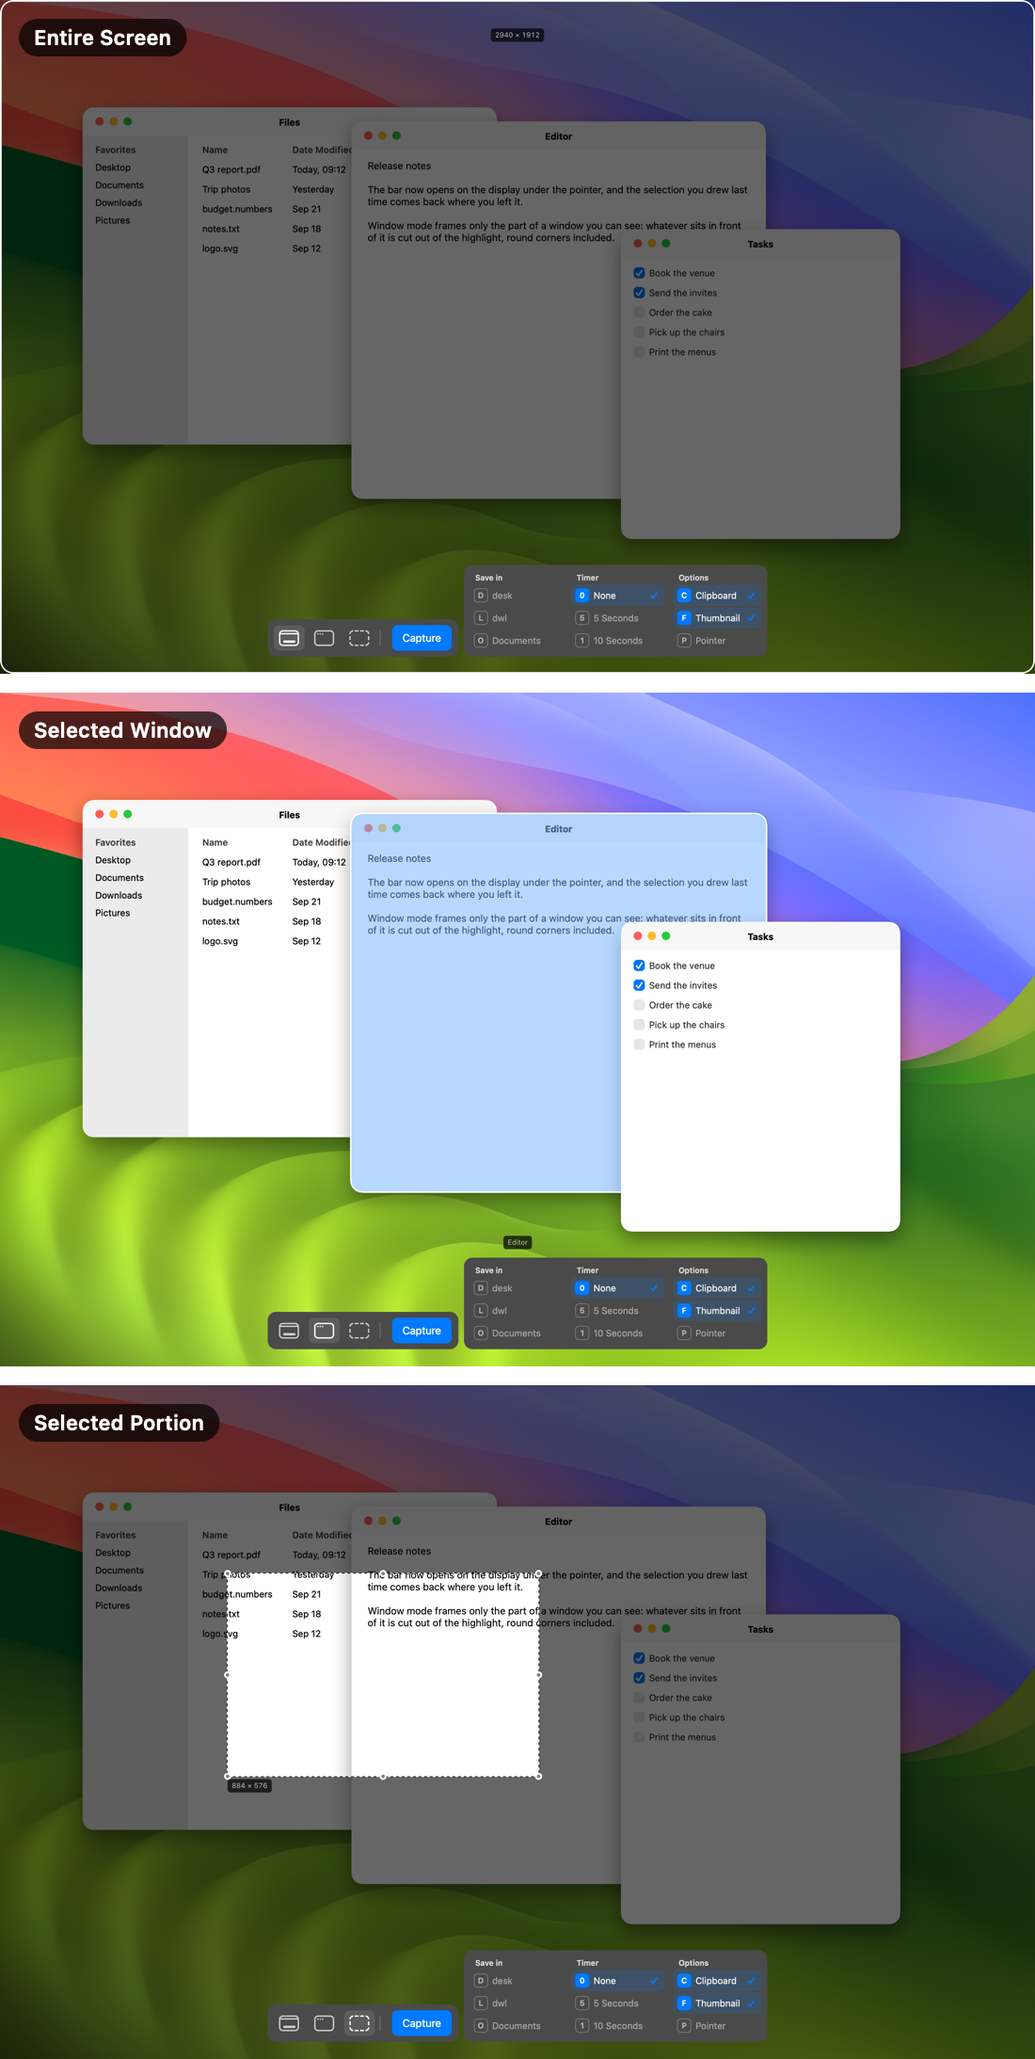
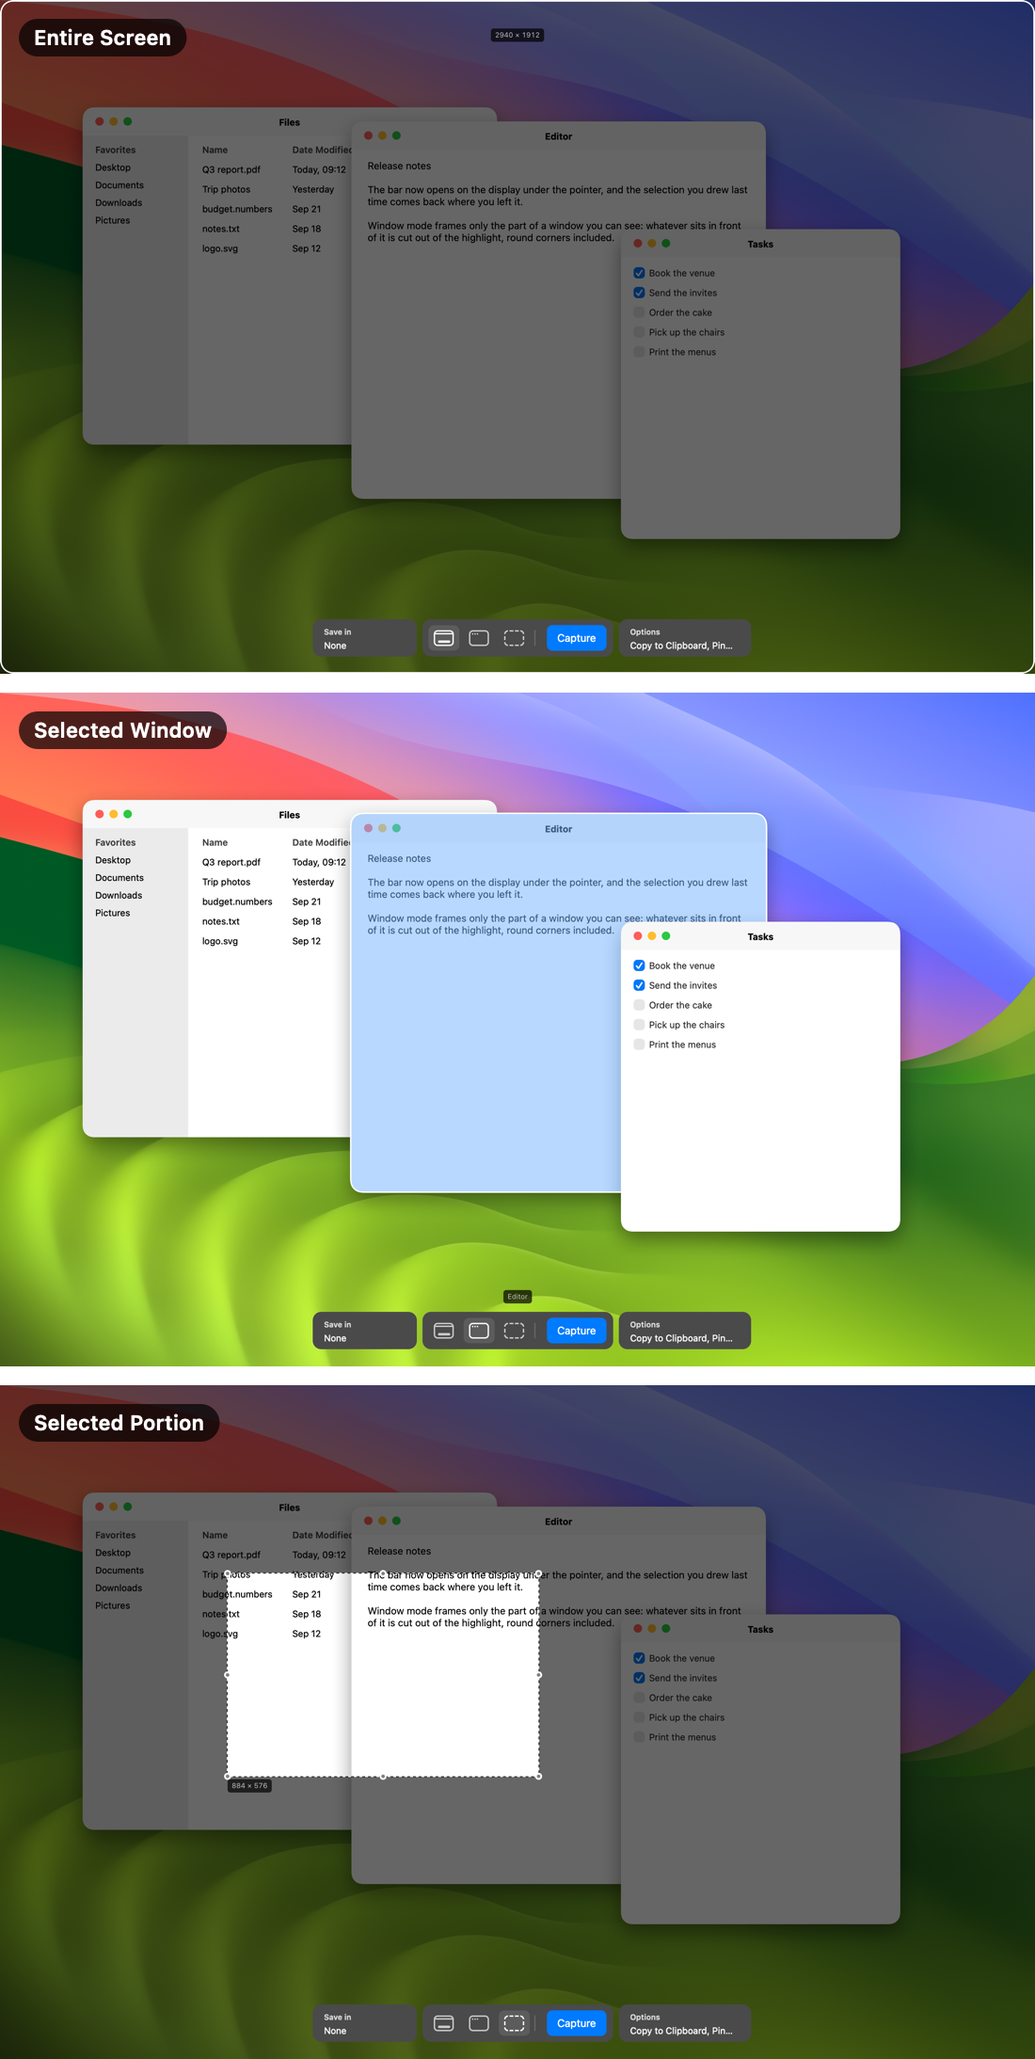
screenshot: Save in left, Options right, both shrunk until hovered; no timer
The timer goes, settings key and live-capture path included: every shot
now comes from the frozen screen. Save in sits on the bar's left and
Options on its right, each as tall as the bar with its title and what is
on; hovered, it grows upward (250 ms ease-out, Reduce Motion keeps the
crossfade) to a row per setting. Options read Copy to Clipboard (⌘C),
Pin Thumbnail (⌘P) and Capture Mouse (⌘M).

diff --git a/screenshot/Sources/Screenshot/Bar.swift b/screenshot/Sources/Screenshot/Bar.swift
@@ -1,8 +1,8 @@
 import AppKit
 import ScreenshotCore
 
-/// The ⌘⇧5 strip, laid out like the system's: the stills, the button, with every setting on
-/// its right. Never key: keys go to the overlay.
+/// The ⌘⇧5 strip, laid out like the system's: the stills and the button, between Save in on
+/// its left and Options on its right. Never key: keys go to the overlay.
 final class Bar: NSPanel {
     // Apple's geometry, measured on the system bar at 2×: 53 pt tall, stills on a
     // 50 pt pitch in 44×36 buttons, a divider 7 pt after them, the button 17.5 pt after that.
@@ -11,7 +11,9 @@ final class Bar: NSPanel {
     private(set) var buttons: [ModeButton] = []
     let go = NSButton()
     let hint = Hint()
-    let strip = Strip()
+    let saveIn = Section.saveIn()
+    let options = Section.options()
+    var sections: [Section] { [saveIn, options] }
 
     init(session: Session, on screen: NSScreen) {
         self.session = session
@@ -64,15 +66,27 @@ final class Bar: NSPanel {
         let width = go.frame.maxX + 8.5
         back.frame = CGRect(x: 0, y: 0, width: width, height: Bar.height)
         let v = screen.visibleFrame
-        // The bar and its settings, centred together.
-        let both = width + 8 + strip.frame.width
-        setFrame(CGRect(x: (v.midX - both / 2).rounded(), y: v.minY + 24, width: width, height: Bar.height), display: false)
-        strip.place(beside: self)
+        setFrame(CGRect(x: (v.midX - width / 2).rounded(), y: v.minY + 24, width: width, height: Bar.height), display: false)
+        placeSections()
     }
 
     override var canBecomeKey: Bool { false }
-    override func orderFrontRegardless() { super.orderFrontRegardless(); strip.reload(); strip.place(beside: self); strip.orderFrontRegardless() }
-    override func orderOut(_ sender: Any?) { hint.hide(); strip.orderOut(nil); super.orderOut(sender) }
+    override func orderFrontRegardless() {
+        super.orderFrontRegardless()
+        for s in sections { s.reload(); s.expand(false, animated: false) }
+        placeSections()
+        sections.forEach { $0.orderFrontRegardless() }
+    }
+    override func orderOut(_ sender: Any?) { hint.hide(); sections.forEach { $0.orderOut(nil) }; super.orderOut(sender) }
+
+    /// 8 pt off each end, bottoms level: they grow upward.
+    private func placeSections() {
+        saveIn.setFrameOrigin(CGPoint(x: frame.minX - 8 - saveIn.frame.width, y: frame.minY))
+        options.setFrameOrigin(CGPoint(x: frame.maxX + 8, y: frame.minY))
+    }
+
+    /// ⌘ + `key`; false when no setting has that letter.
+    func flip(_ key: String) -> Bool { sections.contains { $0.flip(key) } }
     override func mouseEntered(with event: NSEvent) { NSCursor.arrow.set() }
     override func mouseMoved(with event: NSEvent) { NSCursor.arrow.set() }
 
@@ -89,7 +103,7 @@ final class Bar: NSPanel {
     /// The bar, its settings and, given `i`, the hint of button `i`, as the screen shows them,
     /// still never on screen; with the frame they cover.
     func picture(hovering i: Int? = nil) -> (NSBitmapImageRep, CGRect) {
-        var parts: [NSWindow] = [self, strip]
+        var parts: [NSWindow] = [self] + sections
         if let i {
             hint.place(buttons[i].toolTip!, above: buttons[i], in: self)
             parts.append(hint)
@@ -221,33 +235,41 @@ final class Hint: NSPanel {
     func hide() { orderOut(nil) }
 }
 
-/// Every setting, always above the bar: three titled columns of three. A click or ⌘ + its key
-/// flips one; the timer's three are one choice.
-final class Strip: NSPanel {
+/// One group of settings beside the bar, as tall as the bar: its title and what is on. Hovered,
+/// it grows upward to a row per setting. A click or ⌘ + the key on its cap flips one.
+final class Section: NSPanel {
     struct Item {
         let key: String, title: String, on: Bool
         let flip: () -> Void
     }
 
     private static let pad: CGFloat = 8, titleHeight: CGFloat = 20, row: CGFloat = 30, gap: CGFloat = 2
-    static let height = pad + titleHeight + 3 * row + 2 * gap + pad
+    private let name: String
+    private let items: () -> [Item]
+    private let body = NSView()
+    private let summary = NSTextField(labelWithString: "")
+    private let rows = NSView()
+    private(set) var expanded = false
 
-    static func sections() -> [(String, [Item])] {
-        let folders = zip(["D", "L", "O"], Settings.standardFolders).map { key, f in
-            Item(key: key, title: f.0, on: Settings.folders.contains { $0.path == f.1.path }) { Settings.toggle(folder: f.1) }
+    static func saveIn() -> Section {
+        Section("Save in") {
+            zip(["D", "L", "O"], Settings.standardFolders).map { key, f in
+                Item(key: key, title: f.0, on: Settings.folders.contains { $0.path == f.1.path }) { Settings.toggle(folder: f.1) }
+            }
         }
-        let timer = [("0", "None", 0), ("5", "5 Seconds", 5), ("1", "10 Seconds", 10)].map { key, title, secs in
-            Item(key: key, title: title, on: Settings.timer == secs) { Settings.timer = secs }
-        }
-        let options = [
-            Item(key: "C", title: "Clipboard", on: Settings.copies) { Settings.copies.toggle() },
-            Item(key: "F", title: "Thumbnail", on: Settings.thumbnail) { Settings.thumbnail.toggle() },
-            Item(key: "P", title: "Pointer", on: Settings.cursor) { Settings.cursor.toggle() },
-        ]
-        return [("Save in", folders), ("Timer", timer), ("Options", options)]
     }
 
-    init() {
+    static func options() -> Section {
+        Section("Options") {
+            [Item(key: "C", title: "Copy to Clipboard", on: Settings.copies) { Settings.copies.toggle() },
+             Item(key: "P", title: "Pin Thumbnail", on: Settings.thumbnail) { Settings.thumbnail.toggle() },
+             Item(key: "M", title: "Capture Mouse", on: Settings.cursor) { Settings.cursor.toggle() }]
+        }
+    }
+
+    private init(_ name: String, items: @escaping () -> [Item]) {
+        self.name = name
+        self.items = items
         super.init(contentRect: .zero, styleMask: [.borderless, .nonactivatingPanel], backing: .buffered, defer: false)
         level = NSWindow.Level(rawValue: NSWindow.Level.screenSaver.rawValue + 1)
         isOpaque = false
@@ -258,66 +280,104 @@ final class Strip: NSPanel {
         isReleasedWhenClosed = false
         sharingType = .none
         collectionBehavior = [.canJoinAllSpaces, .fullScreenAuxiliary, .stationary, .ignoresCycle]
-        contentView = Ground()
-        contentView!.addTrackingArea(NSTrackingArea(rect: .zero, options: [.mouseEnteredAndExited, .mouseMoved, .activeAlways, .inVisibleRect], owner: self))
+        let back = Ground()
+        contentView = back
+        back.addTrackingArea(NSTrackingArea(rect: .zero, options: [.mouseEnteredAndExited, .mouseMoved, .activeAlways, .inVisibleRect], owner: self))
+        // Pinned to the top, so the window's edge clips it as it grows and shrinks.
+        body.autoresizingMask = [.minYMargin]
+        back.addSubview(body)
+        summary.font = .systemFont(ofSize: 13)
+        summary.textColor = NSColor.labelColor.withAlphaComponent(0.85)
+        summary.lineBreakMode = .byTruncatingTail
+        for v in [summary, rows] as [NSView] { v.wantsLayer = true }
         reload()
+        setContentSize(CGSize(width: body.frame.width, height: Bar.height))
+        body.setFrameOrigin(CGPoint(x: 0, y: Bar.height - body.frame.height))
     }
 
     override var canBecomeKey: Bool { false }
-    override func mouseEntered(with event: NSEvent) { NSCursor.arrow.set() }
+    override func mouseEntered(with event: NSEvent) { NSCursor.arrow.set(); expand(true) }
     override func mouseMoved(with event: NSEvent) { NSCursor.arrow.set() }
+    override func mouseExited(with event: NSEvent) { expand(false) }
 
-    func reload() {
-        let back = contentView!
-        back.subviews.forEach { $0.removeFromSuperview() }
-        var x = Strip.pad
-        for (name, items) in Strip.sections() {
-            let title = NSTextField(labelWithString: name)
-            title.font = .systemFont(ofSize: 11, weight: .semibold)
-            title.textColor = .secondaryLabelColor
-            title.sizeToFit()
-            title.setFrameOrigin(CGPoint(x: x + 6, y: Strip.height - Strip.pad - Strip.titleHeight + 3))
-            back.addSubview(title)
-            let keys = items.map { item in StripKey(item) { [weak self] in item.flip(); self?.reload() } }
-            let width = keys.map(\.frame.width).max()!
-            var y = Strip.height - Strip.pad - Strip.titleHeight
-            for k in keys {
-                y -= Strip.row
-                k.frame = CGRect(x: x, y: y, width: width, height: Strip.row)
-                back.addSubview(k)
-                y -= Strip.gap
-            }
-            x += width + 12
-        }
-        setContentSize(CGSize(width: x - 12 + Strip.pad, height: Strip.height))
+    private var tall: CGFloat {
+        let n = CGFloat(items().count)
+        return 2 * Section.pad + Section.titleHeight + n * Section.row + (n - 1) * Section.gap
     }
 
-    /// ⌘ + `key`; false when no setting has that letter.
+    func reload() {
+        body.subviews.forEach { $0.removeFromSuperview() }
+        rows.subviews.forEach { $0.removeFromSuperview() }
+        let all = items()
+        let keys = all.map { item in StripKey(item) { [weak self] in item.flip(); self?.reload() } }
+        let width = keys.map(\.frame.width).max()!
+        let h = tall
+        body.frame = CGRect(x: body.frame.minX, y: frame.height - h, width: width + 2 * Section.pad, height: h)
+        let title = NSTextField(labelWithString: name)
+        title.font = .systemFont(ofSize: 11, weight: .semibold)
+        title.textColor = .secondaryLabelColor
+        title.sizeToFit()
+        let below = h - Section.pad - Section.titleHeight
+        title.setFrameOrigin(CGPoint(x: Section.pad + 6, y: below + 3))
+        let on = all.filter(\.on).map(\.title)
+        summary.stringValue = on.isEmpty ? "None" : on.joined(separator: ", ")
+        summary.frame = CGRect(x: Section.pad + 6, y: below - 18, width: width - 12, height: 17)
+        rows.frame = CGRect(x: Section.pad, y: 0, width: width, height: below)
+        var y = below
+        for k in keys {
+            y -= Section.row
+            k.frame = CGRect(x: 0, y: y, width: width, height: Section.row)
+            rows.addSubview(k)
+            y -= Section.gap
+        }
+        for v in [title, summary, rows] as [NSView] { body.addSubview(v) }
+        rows.alphaValue = expanded ? 1 : 0
+        summary.alphaValue = expanded ? 0 : 1
+    }
+
+    /// Grows upward to its rows, or back to the bar's height: an ease-out over 250 ms, the rows
+    /// and the summary crossfading; Reduce Motion keeps the crossfade alone.
+    func expand(_ on: Bool, animated: Bool = true) {
+        guard on != expanded || !animated else { return }
+        expanded = on
+        var f = frame
+        f.size.height = on ? tall : Bar.height
+        guard animated else {
+            setFrame(f, display: true)
+            rows.alphaValue = on ? 1 : 0
+            summary.alphaValue = on ? 0 : 1
+            return
+        }
+        let still = NSWorkspace.shared.accessibilityDisplayShouldReduceMotion
+        if still { setFrame(f, display: true) }
+        NSAnimationContext.runAnimationGroup { c in
+            c.duration = 0.25
+            c.timingFunction = CAMediaTimingFunction(name: .easeOut)
+            if !still { animator().setFrame(f, display: true) }
+            rows.animator().alphaValue = on ? 1 : 0
+            summary.animator().alphaValue = on ? 0 : 1
+        }
+    }
+
+    /// ⌘ + `key`; false when no setting here has that letter.
     func flip(_ key: String) -> Bool {
-        guard let item = Strip.sections().flatMap(\.1).first(where: { $0.key == key.uppercased() }) else { return false }
+        guard let item = items().first(where: { $0.key == key.uppercased() }) else { return false }
         item.flip()
         reload()
         return true
     }
-
-    /// On the bar's right, bottoms level.
-    func place(beside bar: NSWindow) {
-        setFrameOrigin(CGPoint(x: bar.frame.maxX + 8, y: bar.frame.minY))
-    }
-
-    func hide() { orderOut(nil) }
 }
 
 /// One setting: its key on a cap, its name, and a tick when it is on; on, the row sits on the
 /// accent colour.
 private final class StripKey: NSView {
-    private let item: Strip.Item
+    private let item: Section.Item
     private let flip: () -> Void
     private static let font = NSFont.systemFont(ofSize: 13)
     private static let keyFont = NSFont.systemFont(ofSize: 11, weight: .semibold)
     private static let tick = NSFont.systemFont(ofSize: 13, weight: .bold)
 
-    init(_ item: Strip.Item, flip: @escaping () -> Void) {
+    init(_ item: Section.Item, flip: @escaping () -> Void) {
         self.item = item
         self.flip = flip
         let text = (item.title as NSString).size(withAttributes: [.font: StripKey.font]).width

diff --git a/screenshot/Sources/Screenshot/Session.swift b/screenshot/Sources/Screenshot/Session.swift
@@ -105,7 +105,7 @@ final class Session {
     }
 
     func step(_ delta: Int) { state.step(delta); refresh() }
-    func flipSetting(_ key: String) { _ = bar?.strip.flip(key) }
+    func flipSetting(_ key: String) { _ = bar?.flip(key) }
     func set(_ target: Target) { state.target = target; refresh() }
 
     /// The arrows glide the drawn box to `selection`, which stays the truth for hits and the shot.
@@ -181,13 +181,11 @@ final class Session {
 
         Task {
             do {
-                let live = Settings.timer > 0
-                if live { try await Task.sleep(for: .seconds(Settings.timer)) }
                 switch state.target {
                 case .screen:
                     var last: (URL, CGImage, CGRect)?
                     for s in screen.map({ [$0] }) ?? NSScreen.screens {
-                        let image = live ? try await Capture.screen(s) : frozen[s.displayID]!
+                        let image = frozen[s.displayID]!
                         last = (try Output.save(image, scale: s.backingScaleFactor), image, s.frame)
                     }
                     if let (url, image, rect) = last { Thumbnail.show(.image(image, url, rect)) }
@@ -199,8 +197,7 @@ final class Session {
                 case .area:
                     let r = selection!.integral
                     let s = NSScreen.containing(r)
-                    let image = live ? try await Capture.area(r, on: s)
-                        : frozen[s.displayID]!.cropping(to: pixelCrop(r, in: s.frame, scale: s.backingScaleFactor))!
+                    let image = frozen[s.displayID]!.cropping(to: pixelCrop(r, in: s.frame, scale: s.backingScaleFactor))!
                     Thumbnail.show(.image(image, try Output.save(image, scale: s.backingScaleFactor), r))
                 }
             } catch {

diff --git a/screenshot/Sources/Screenshot/Docs.swift b/screenshot/Sources/Screenshot/Docs.swift
@@ -15,6 +15,9 @@ enum Docs {
         session.state = BarState(target: .area)
         let bar = Bar(session: session, on: screen)
         save(bar.render(), dir, "bar.png")
+        bar.sections.forEach { $0.expand(true, animated: false) }
+        save(bar.render(), dir, "bar-settings.png")
+        bar.sections.forEach { $0.expand(false, animated: false) }
         save(bar.picture(hovering: 0).0.representation(using: .png, properties: [:]), dir, "bar-hover.png")
         let overlay = Overlay(screen: screen, frozen: wall, session: session)
         overlay.refreshLayers()
@@ -83,7 +86,7 @@ enum Docs {
         overlay.refreshLayers()
         func spot(_ v: NSView) -> CGRect { bar.convertToScreen(v.convert(v.bounds, to: nil)) }
         func centre(_ v: NSView) -> CGPoint { CGPoint(x: spot(v).midX, y: spot(v).midY) }
-        func onBar(_ p: CGPoint) -> Bool { bar.frame.contains(p) || bar.strip.frame.contains(p) }
+        func onBar(_ p: CGPoint) -> Bool { ([bar] + bar.sections).contains { $0.frame.contains(p) } }
 
         var p = CGPoint(x: s.minX + s.width * 0.4, y: s.minY + s.height * 0.22)
         var up = false, card: Thumbnail?, pin: Pin?, caption: String?, note: String?, ring = false

diff --git a/screenshot/Sources/Screenshot/Overlay.swift b/screenshot/Sources/Screenshot/Overlay.swift
@@ -254,12 +254,12 @@ private final class OverlayView: NSView {
         if let cut, target != .screen { path.addRect(cut) }
         hole.path = path
         if target == .window, let text {
-            // The window's name sits above the bar and its settings, centred on the screen.
+            // The window's name sits above the bar, centred on the screen.
             frameLayer.path = nil; frameBase.path = nil; handlesLayer.path = nil; handleDots.path = nil
             label.string = text
             let size = (text as NSString).size(withAttributes: [.font: label.font as! NSFont])
             let box = CGRect(x: (bounds.midX - size.width / 2 - 6).rounded(),
-                             y: local(screen.visibleFrame).minY + 24 + max(Bar.height, Strip.height) + 12,
+                             y: local(screen.visibleFrame).minY + 24 + Bar.height + 12,
                              width: size.width + 12, height: size.height + 6)
             labelBack.frame = box
             label.frame = box.insetBy(dx: 0, dy: 3)

diff --git a/screenshot/Sources/Screenshot/Capture.swift b/screenshot/Sources/Screenshot/Capture.swift
@@ -47,16 +47,6 @@ enum Capture {
         return try await shoot(filter, config)
     }
 
-    /// `rect` in AppKit global points, inside `screen`.
-    static func area(_ rect: CGRect, on screen: NSScreen) async throws -> CGImage {
-        let (_, filter) = try await displayFilter(screen)
-        let config = SCStreamConfiguration()
-        config.sourceRect = displayLocal(rect, in: screen.frame)
-        config.width = Int(rect.width * screen.backingScaleFactor)
-        config.height = Int(rect.height * screen.backingScaleFactor)
-        return try await shoot(filter, config)
-    }
-
     /// With its shadow on a transparent background, like ⌘⇧4-space; without, like ⌥-click there.
     static func window(_ w: WindowInfo, shadow: Bool) async throws -> CGImage {
         let filter = SCContentFilter(desktopIndependentWindow: try await window(w.id))

diff --git a/screenshot/Sources/Screenshot/Settings.swift b/screenshot/Sources/Screenshot/Settings.swift
@@ -23,11 +23,6 @@ enum Settings {
     static func toggle(folder dir: URL) {
         if let i = folders.firstIndex(where: { $0.path == dir.path }) { folders.remove(at: i) } else { folders.append(dir) }
     }
-    /// Seconds before a timed capture; 0 is immediate.
-    static var timer: Int {
-        get { d.integer(forKey: "timer") }
-        set { d.set(newValue, forKey: "timer") }
-    }
     static var cursor: Bool {
         get { d.bool(forKey: "cursor") }
         set { d.set(newValue, forKey: "cursor") }

diff --git a/screenshot/README.md b/screenshot/README.md
@@ -18,7 +18,7 @@ take: the entire screen, a window, or a portion you drag out.
 - **Selected Portion** — the screen is dimmed except the box you drag, with its handles and its
   size in pixels.
 
-![The bar: three stills, Capture; on its right the settings in three columns, Save in, Timer and Options, the ones that are on ticked in blue](docs/bar.png)
+![The bar: three stills and Capture, between Save in on the left and Options on the right, each showing its title and what is on](docs/bar.png)
 
 Hovering a button names its mode, with none of a tooltip's delay:
 
@@ -26,9 +26,11 @@ Hovering a button names its mode, with none of a tooltip's delay:
 
 - **Keys.** ⌘← ⌘→ step through the modes, the arrows glide the selection by 20 (⇧ by 100, ⌥ resizes),
   Return takes it, Escape, a right click or ⌘⇧5 again closes.
-- **Settings.** Always on the right of the bar, in three columns: **Save in** (Desktop, Downloads,
-  Documents; several at once), **Timer** (None, 5, 10 seconds) and **Options** (Clipboard,
-  Thumbnail, Pointer). A click or ⌘ and the key on its cap flips one.
+- **Settings.** **Save in** sits on the left of the bar (Desktop, Downloads, Documents; several
+  at once), **Options** on its right (Copy to Clipboard, Pin Thumbnail, Capture Mouse). Each
+  shows what is on and opens upward when hovered; a click or ⌘ and the key on a cap flips one.
+
+  ![Both groups open: each setting on a row with its key, the ones that are on ticked in blue](docs/bar-settings.png)
 
 - **After the shot.** A thumbnail sits in the corner for eight seconds: a click pins it, a drag
   takes the file with it.
